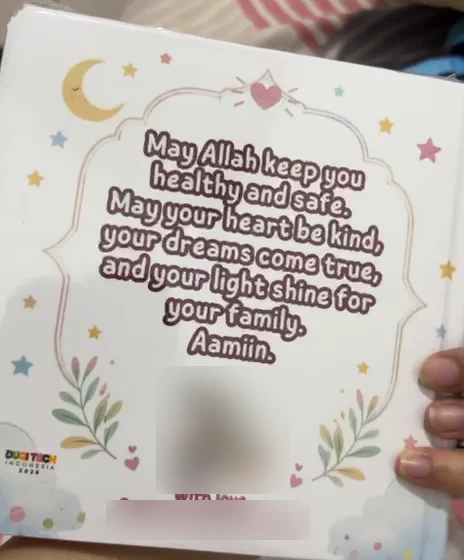
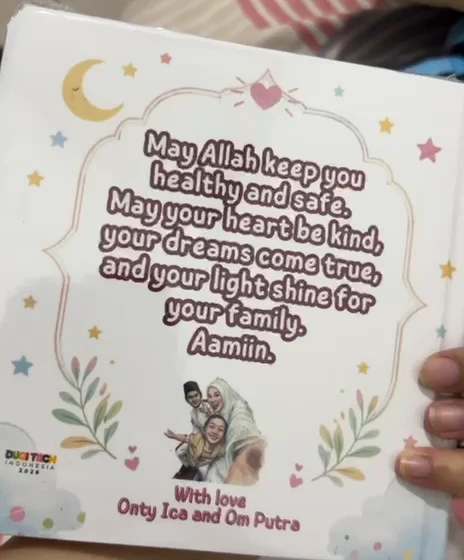
Foto board book tanpa blur dan perbarui layanan pembuatan toko marketplace
Claude-Session: https://claude.ai/code/session_01L1QprujAjyJ4QG9MGULLvj

Changed region(s): [[0.2414, 0.6375, 0.6638, 0.9714]]

diff --git a/src/components/contact/contact-form/service-wizard.tsx b/src/components/contact/contact-form/service-wizard.tsx
@@ -55,10 +55,11 @@ export const SERVICES = [
   },
   {
     id: 'marketplace',
-    title: 'Setup Toko Marketplace',
-    price: 'Rp300.000',
-    meta: 'Mulai dari',
-    description: 'Membuka toko, menyusun listing produk, foto katalog, dan deskripsi di Shopee atau Tokopedia.'
+    title: 'Pembuatan Toko Marketplace',
+    price: 'Rp500.000',
+    meta: 'Gratis masuk grup reseller herbal dan buku · langsung ada 50 produk',
+    description:
+      'Saya bukakan toko Anda di Shopee atau Tokopedia, lengkap dengan 50 produk herbal dan buku islami yang sudah terpasang dan siap dijual.'
   },
   {
     id: 'lainnya',
